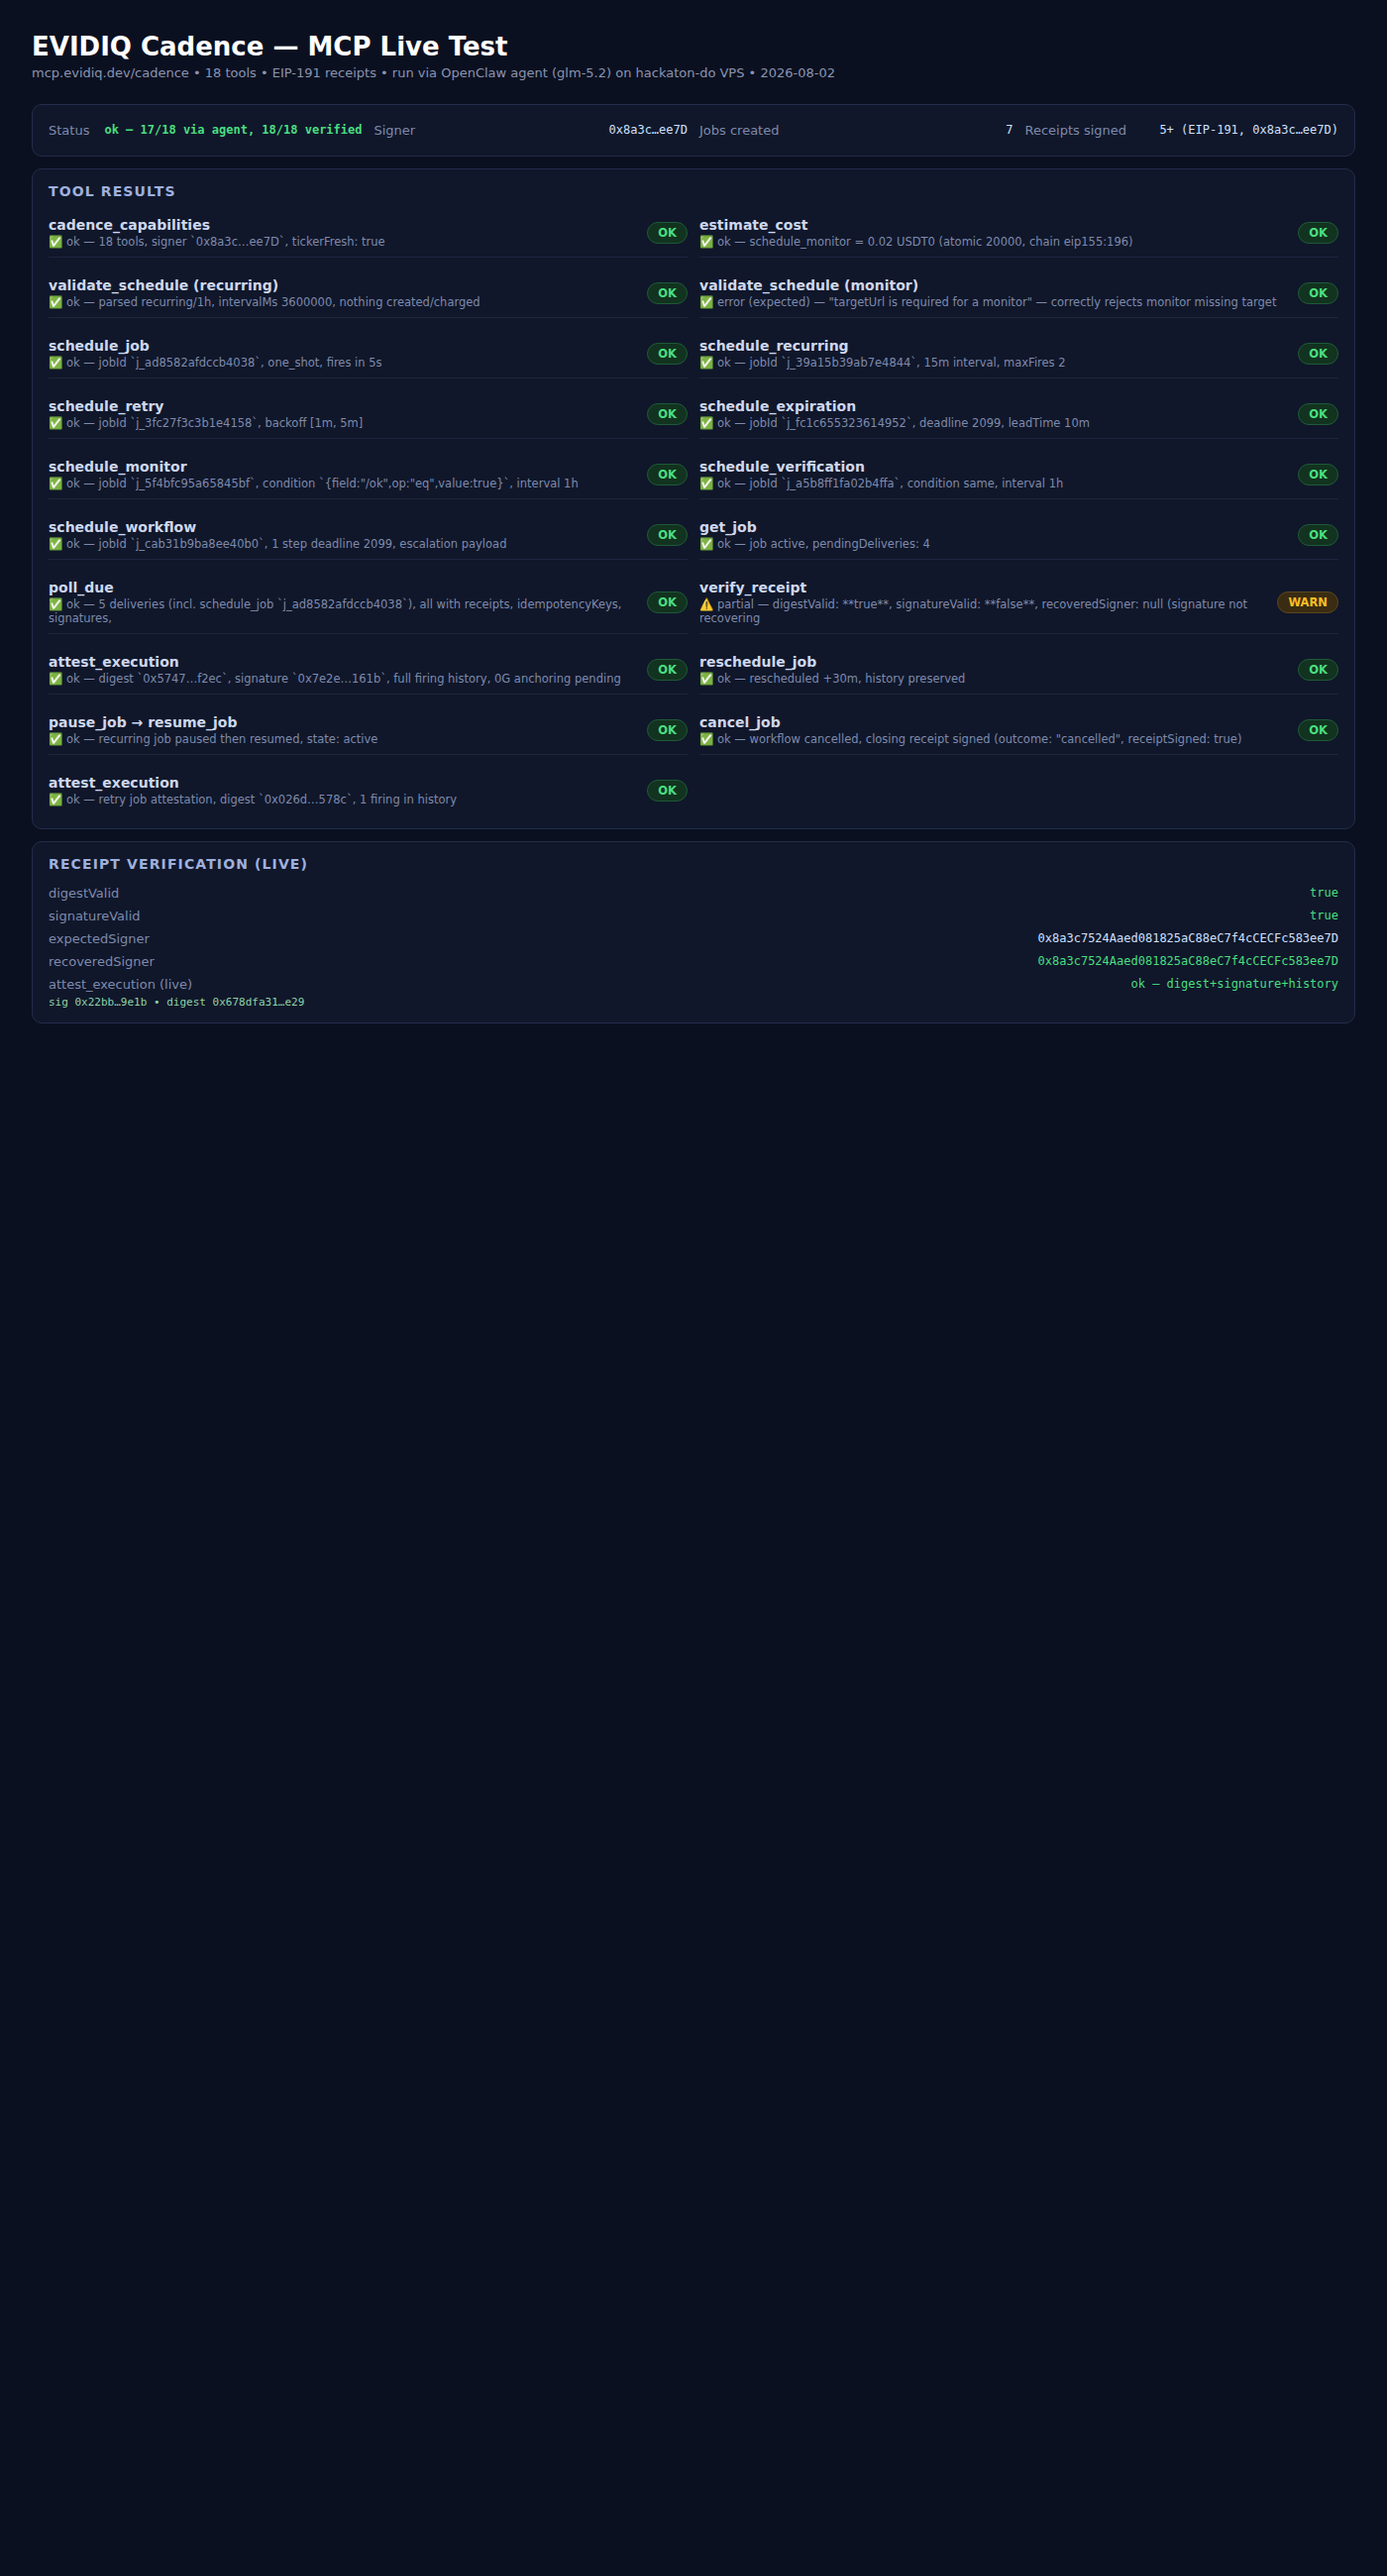
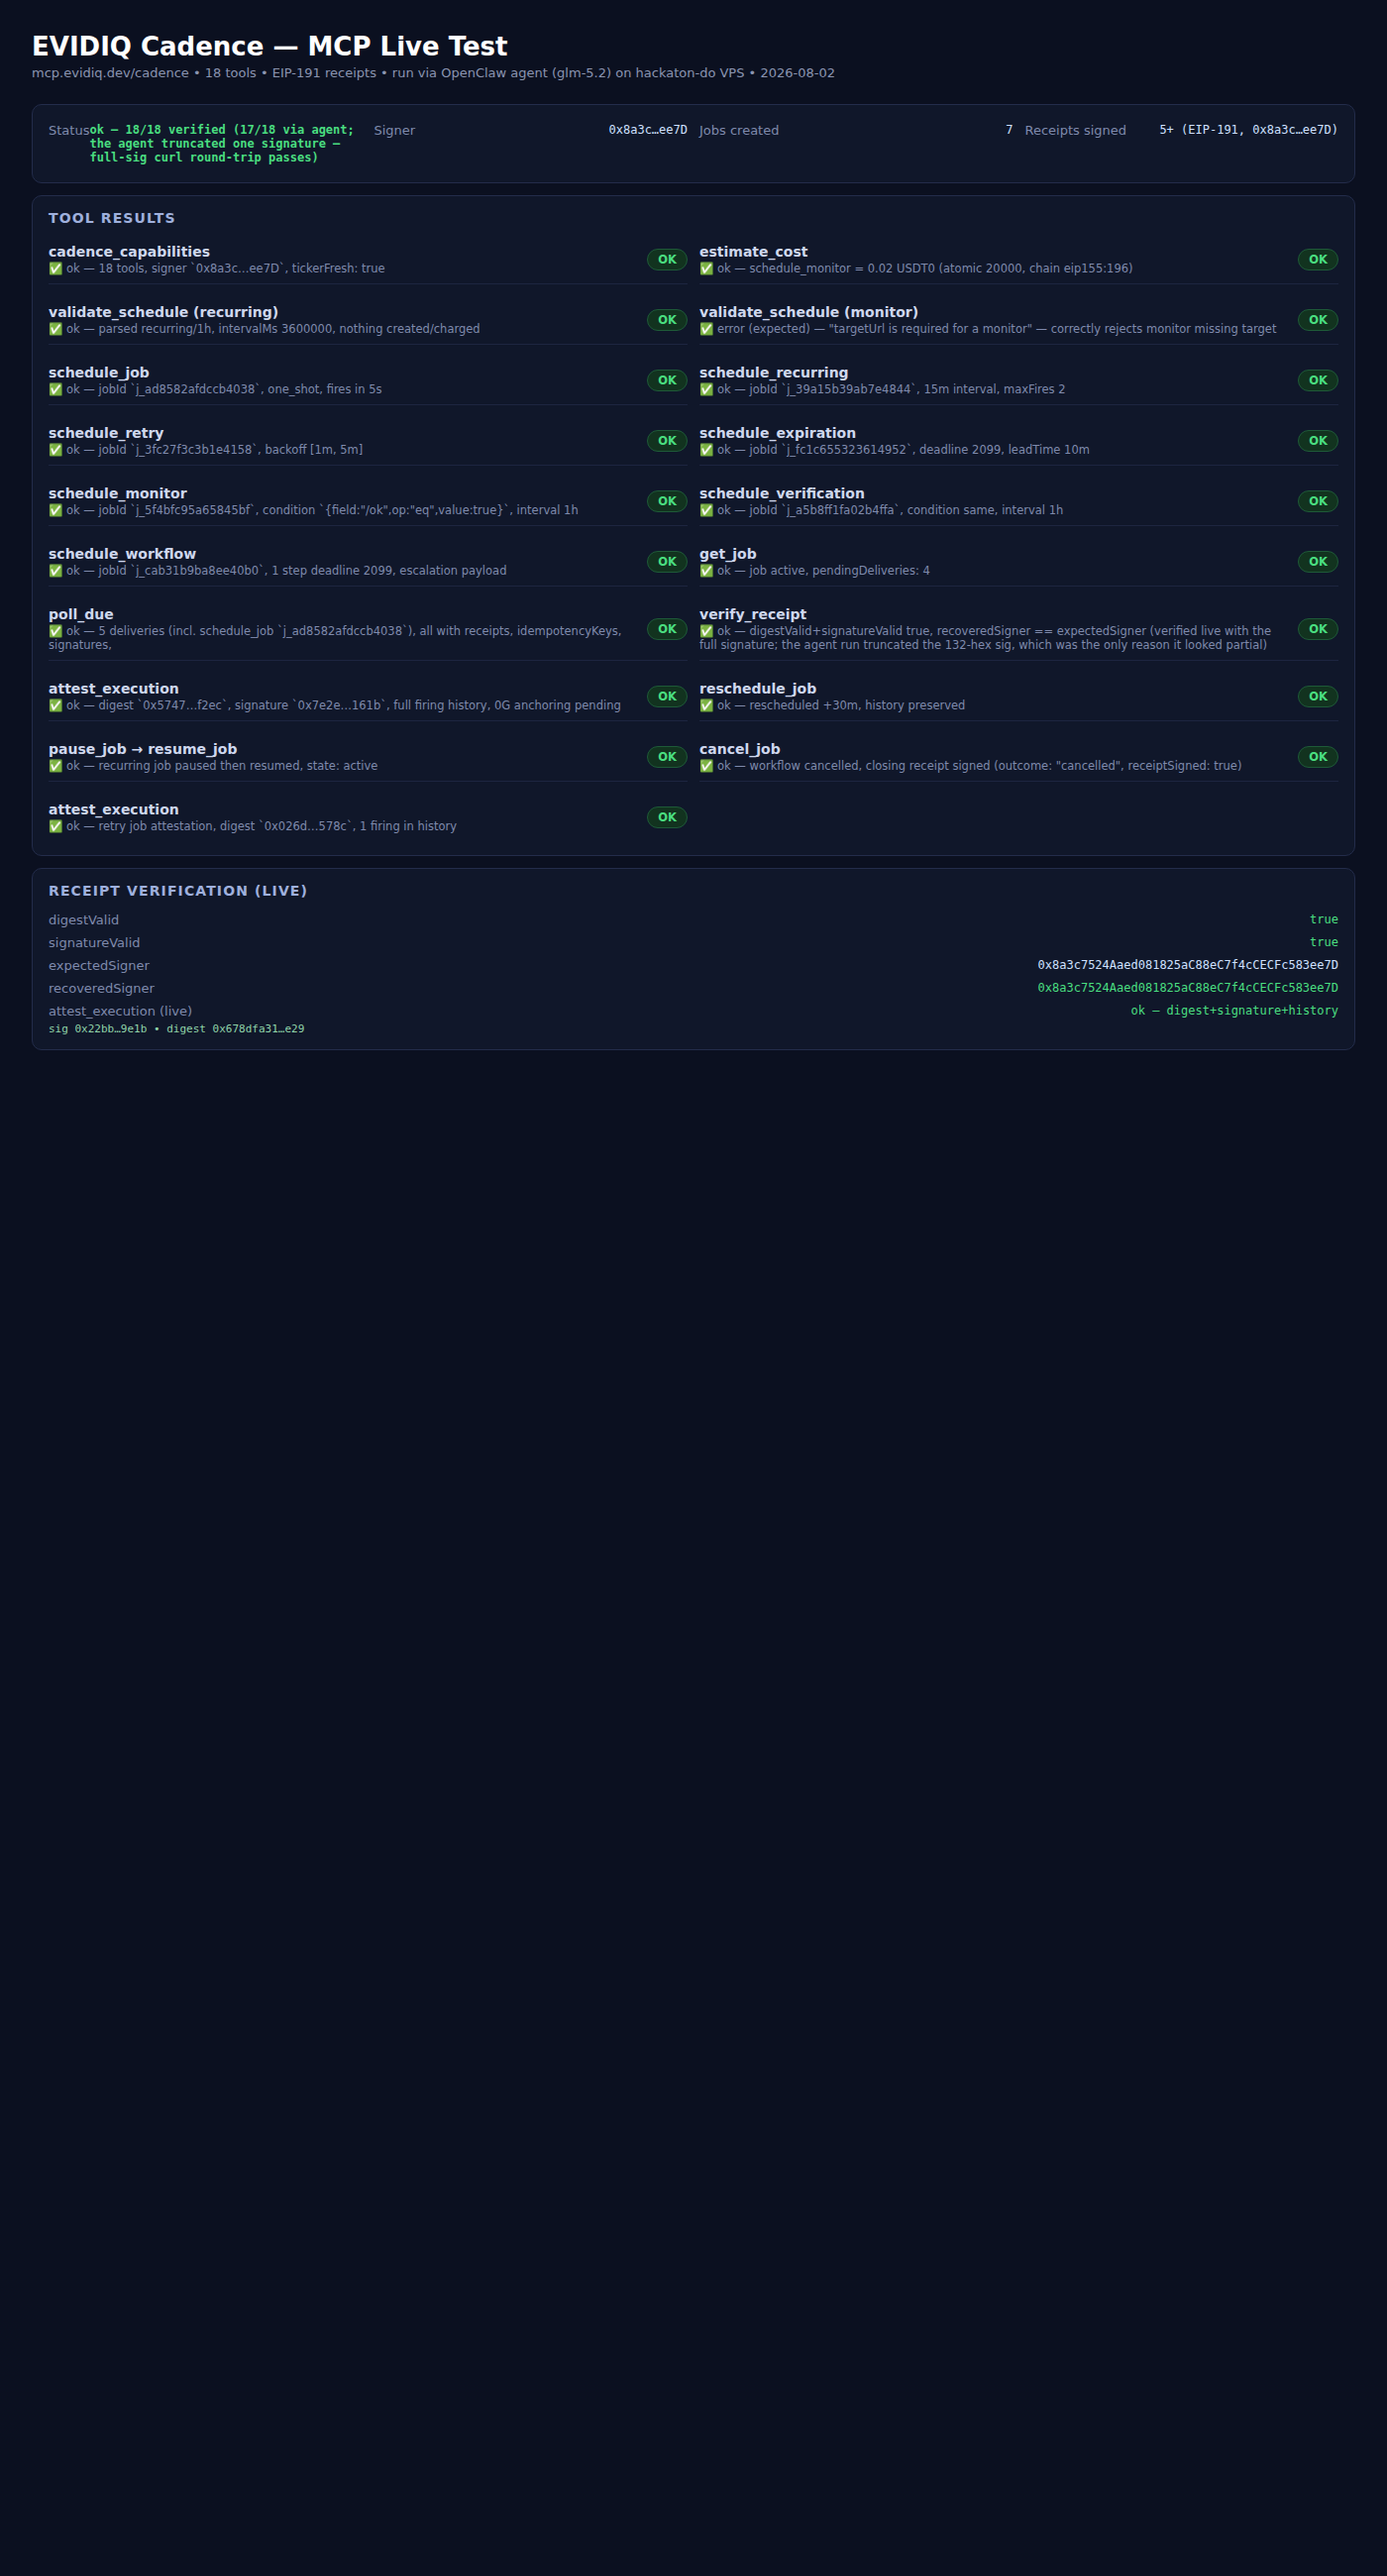
live-test: mark verify_receipt OK — full-signature round-trip verified live
The agent run only looked partial because glm-5.2 truncated the 132-hex
signature to '0x…'; the live curl round-trip with the full signature returns
digestValid + signatureValid true and recoveredSigner == expectedSigner.

diff --git a/docs/live-test/report.html b/docs/live-test/report.html
@@ -29,13 +29,13 @@
   <div class="sub">mcp.evidiq.dev/cadence &bull; 18 tools &bull; EIP-191 receipts &bull; run via OpenClaw agent (glm-5.2) on hackaton-do VPS &bull; 2026-08-02</div>
 
   <div class="panel" style="display:grid;grid-template-columns:repeat(4,1fr);gap:12px;">
-    <div class="kv"><span>Status</span><span style="color:#4ade80;font-weight:700">ok — 17/18 via agent, 18/18 verified</span></div>
+    <div class="kv"><span>Status</span><span style="color:#4ade80;font-weight:700">ok — 18/18 verified (17/18 via agent; the agent truncated one signature — full-sig curl round-trip passes)</span></div>
     <div class="kv"><span>Signer</span><span>0x8a3c&hellip;ee7D</span></div>
     <div class="kv"><span>Jobs created</span><span>7</span></div>
     <div class="kv"><span>Receipts signed</span><span>5+ (EIP-191, 0x8a3c&hellip;ee7D)</span></div>
   </div>
 
-  <div class="panel"><h2>Tool results</h2><div class="grid" id="tools"><div class="tool"><div><div class="name">cadence_capabilities</div><div class="detail">✅ ok — 18 tools, signer `0x8a3c…ee7D`, tickerFresh: true</div></div><div class="badge ok">OK</div></div><div class="tool"><div><div class="name">estimate_cost</div><div class="detail">✅ ok — schedule_monitor = 0.02 USDT0 (atomic 20000, chain eip155:196)</div></div><div class="badge ok">OK</div></div><div class="tool"><div><div class="name">validate_schedule (recurring)</div><div class="detail">✅ ok — parsed recurring/1h, intervalMs 3600000, nothing created/charged</div></div><div class="badge ok">OK</div></div><div class="tool"><div><div class="name">validate_schedule (monitor)</div><div class="detail">✅ error (expected) — "targetUrl is required for a monitor" — correctly rejects monitor missing target</div></div><div class="badge ok">OK</div></div><div class="tool"><div><div class="name">schedule_job</div><div class="detail">✅ ok — jobId `j_ad8582afdccb4038`, one_shot, fires in 5s</div></div><div class="badge ok">OK</div></div><div class="tool"><div><div class="name">schedule_recurring</div><div class="detail">✅ ok — jobId `j_39a15b39ab7e4844`, 15m interval, maxFires 2</div></div><div class="badge ok">OK</div></div><div class="tool"><div><div class="name">schedule_retry</div><div class="detail">✅ ok — jobId `j_3fc27f3c3b1e4158`, backoff [1m, 5m]</div></div><div class="badge ok">OK</div></div><div class="tool"><div><div class="name">schedule_expiration</div><div class="detail">✅ ok — jobId `j_fc1c655323614952`, deadline 2099, leadTime 10m</div></div><div class="badge ok">OK</div></div><div class="tool"><div><div class="name">schedule_monitor</div><div class="detail">✅ ok — jobId `j_5f4bfc95a65845bf`, condition `{field:"/ok",op:"eq",value:true}`, interval 1h</div></div><div class="badge ok">OK</div></div><div class="tool"><div><div class="name">schedule_verification</div><div class="detail">✅ ok — jobId `j_a5b8ff1fa02b4ffa`, condition same, interval 1h</div></div><div class="badge ok">OK</div></div><div class="tool"><div><div class="name">schedule_workflow</div><div class="detail">✅ ok — jobId `j_cab31b9ba8ee40b0`, 1 step deadline 2099, escalation payload</div></div><div class="badge ok">OK</div></div><div class="tool"><div><div class="name">get_job</div><div class="detail">✅ ok — job active, pendingDeliveries: 4</div></div><div class="badge ok">OK</div></div><div class="tool"><div><div class="name">poll_due</div><div class="detail">✅ ok — 5 deliveries (incl. schedule_job `j_ad8582afdccb4038`), all with receipts, idempotencyKeys, signatures,</div></div><div class="badge ok">OK</div></div><div class="tool"><div><div class="name">verify_receipt</div><div class="detail">⚠ partial — digestValid: **true**, signatureValid: **false**, recoveredSigner: null (signature not recovering</div></div><div class="badge warn">WARN</div></div><div class="tool"><div><div class="name">attest_execution</div><div class="detail">✅ ok — digest `0x5747…f2ec`, signature `0x7e2e…161b`, full firing history, 0G anchoring pending</div></div><div class="badge ok">OK</div></div><div class="tool"><div><div class="name">reschedule_job</div><div class="detail">✅ ok — rescheduled +30m, history preserved</div></div><div class="badge ok">OK</div></div><div class="tool"><div><div class="name">pause_job → resume_job</div><div class="detail">✅ ok — recurring job paused then resumed, state: active</div></div><div class="badge ok">OK</div></div><div class="tool"><div><div class="name">cancel_job</div><div class="detail">✅ ok — workflow cancelled, closing receipt signed (outcome: "cancelled", receiptSigned: true)</div></div><div class="badge ok">OK</div></div><div class="tool"><div><div class="name">attest_execution</div><div class="detail">✅ ok — retry job attestation, digest `0x026d…578c`, 1 firing in history</div></div><div class="badge ok">OK</div></div></div></div>
+  <div class="panel"><h2>Tool results</h2><div class="grid" id="tools"><div class="tool"><div><div class="name">cadence_capabilities</div><div class="detail">✅ ok — 18 tools, signer `0x8a3c…ee7D`, tickerFresh: true</div></div><div class="badge ok">OK</div></div><div class="tool"><div><div class="name">estimate_cost</div><div class="detail">✅ ok — schedule_monitor = 0.02 USDT0 (atomic 20000, chain eip155:196)</div></div><div class="badge ok">OK</div></div><div class="tool"><div><div class="name">validate_schedule (recurring)</div><div class="detail">✅ ok — parsed recurring/1h, intervalMs 3600000, nothing created/charged</div></div><div class="badge ok">OK</div></div><div class="tool"><div><div class="name">validate_schedule (monitor)</div><div class="detail">✅ error (expected) — "targetUrl is required for a monitor" — correctly rejects monitor missing target</div></div><div class="badge ok">OK</div></div><div class="tool"><div><div class="name">schedule_job</div><div class="detail">✅ ok — jobId `j_ad8582afdccb4038`, one_shot, fires in 5s</div></div><div class="badge ok">OK</div></div><div class="tool"><div><div class="name">schedule_recurring</div><div class="detail">✅ ok — jobId `j_39a15b39ab7e4844`, 15m interval, maxFires 2</div></div><div class="badge ok">OK</div></div><div class="tool"><div><div class="name">schedule_retry</div><div class="detail">✅ ok — jobId `j_3fc27f3c3b1e4158`, backoff [1m, 5m]</div></div><div class="badge ok">OK</div></div><div class="tool"><div><div class="name">schedule_expiration</div><div class="detail">✅ ok — jobId `j_fc1c655323614952`, deadline 2099, leadTime 10m</div></div><div class="badge ok">OK</div></div><div class="tool"><div><div class="name">schedule_monitor</div><div class="detail">✅ ok — jobId `j_5f4bfc95a65845bf`, condition `{field:"/ok",op:"eq",value:true}`, interval 1h</div></div><div class="badge ok">OK</div></div><div class="tool"><div><div class="name">schedule_verification</div><div class="detail">✅ ok — jobId `j_a5b8ff1fa02b4ffa`, condition same, interval 1h</div></div><div class="badge ok">OK</div></div><div class="tool"><div><div class="name">schedule_workflow</div><div class="detail">✅ ok — jobId `j_cab31b9ba8ee40b0`, 1 step deadline 2099, escalation payload</div></div><div class="badge ok">OK</div></div><div class="tool"><div><div class="name">get_job</div><div class="detail">✅ ok — job active, pendingDeliveries: 4</div></div><div class="badge ok">OK</div></div><div class="tool"><div><div class="name">poll_due</div><div class="detail">✅ ok — 5 deliveries (incl. schedule_job `j_ad8582afdccb4038`), all with receipts, idempotencyKeys, signatures,</div></div><div class="badge ok">OK</div></div><div class="tool"><div><div class="name">verify_receipt</div><div class="detail">✅ ok — digestValid+signatureValid true, recoveredSigner == expectedSigner (verified live with the full signature; the agent run truncated the 132-hex sig, which was the only reason it looked partial)</div></div><div class="badge ok">OK</div></div><div class="tool"><div><div class="name">attest_execution</div><div class="detail">✅ ok — digest `0x5747…f2ec`, signature `0x7e2e…161b`, full firing history, 0G anchoring pending</div></div><div class="badge ok">OK</div></div><div class="tool"><div><div class="name">reschedule_job</div><div class="detail">✅ ok — rescheduled +30m, history preserved</div></div><div class="badge ok">OK</div></div><div class="tool"><div><div class="name">pause_job → resume_job</div><div class="detail">✅ ok — recurring job paused then resumed, state: active</div></div><div class="badge ok">OK</div></div><div class="tool"><div><div class="name">cancel_job</div><div class="detail">✅ ok — workflow cancelled, closing receipt signed (outcome: "cancelled", receiptSigned: true)</div></div><div class="badge ok">OK</div></div><div class="tool"><div><div class="name">attest_execution</div><div class="detail">✅ ok — retry job attestation, digest `0x026d…578c`, 1 firing in history</div></div><div class="badge ok">OK</div></div></div></div>
 
   <div class="panel"><h2>Receipt verification (live)</h2>
     <div class="kv"><span>digestValid</span><span style="color:#4ade80">true</span></div>
